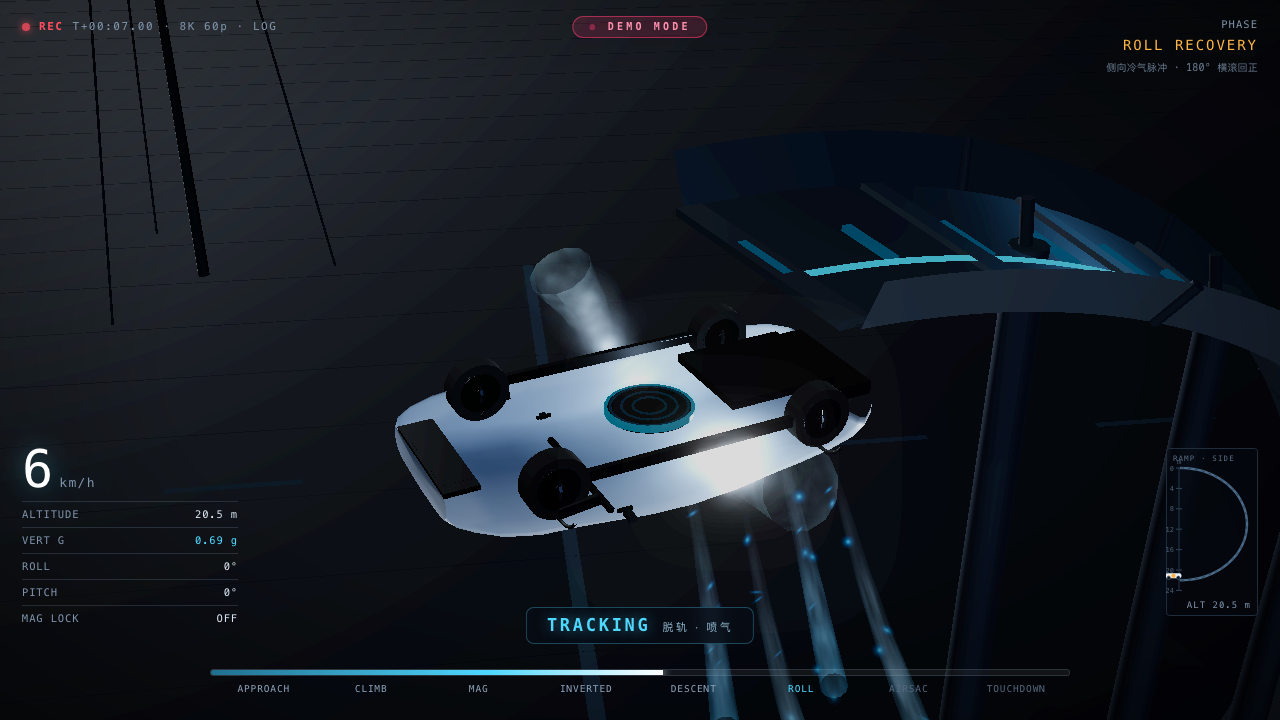
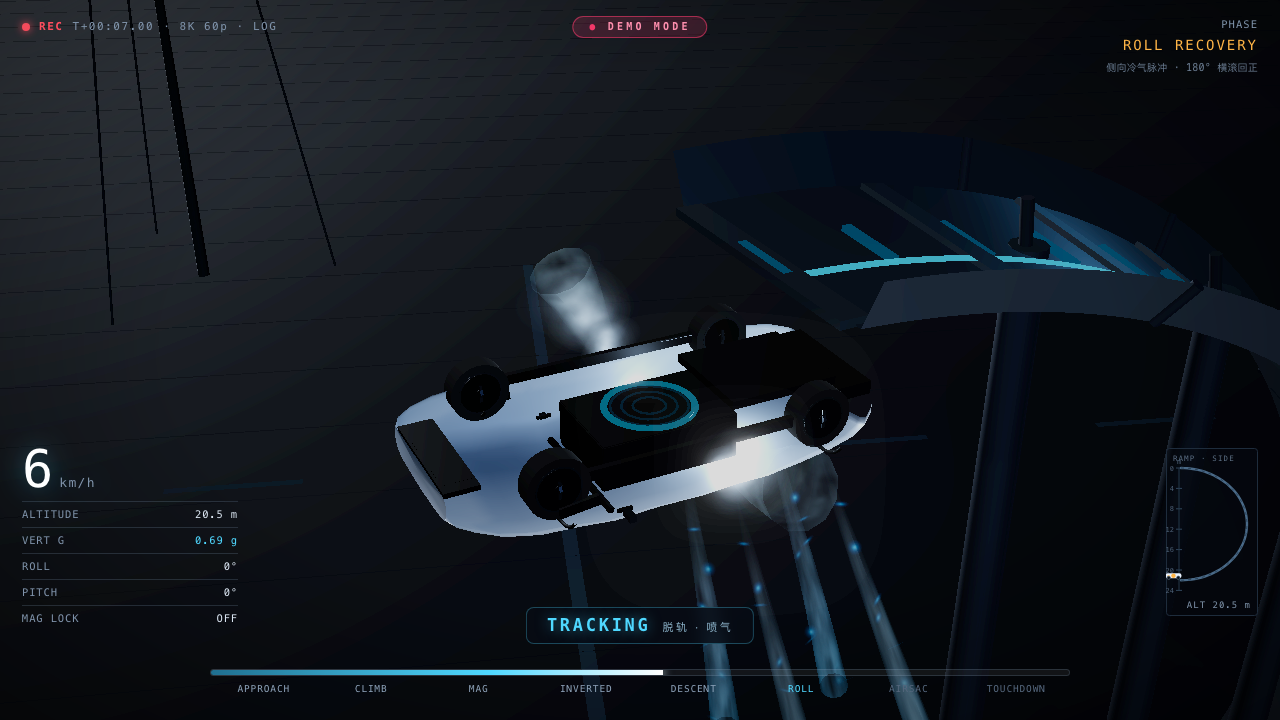
fix(car): 车顶改成真正的开口结构 —— 厚度感 +13.7 倍
## L 的反馈
> 「我肉眼看差异也就5%内吧。。。，帮我扩大到70%以上」

前两轮我把力气全花在【材质和光照】上, 而 L 要的"厚度"是【结构问题】:
车顶没有开口, 玻璃只是贴在一条白弧上。玻璃多不透明、灯怎么打都读不出厚度。

## 真正的诊断
旧车顶:
  CAR_RING 顶部 tw0.96 半宽0.468 y=1.075 -> tw1.00 半宽0.000 y=1.110 (收成一条脊)
  玻璃 z=±hw*0.50=±0.497, y=yTop+0.038 (浮在这条白弧之上)
=> 侧视是一条光滑白弧, 中间贴了块深色板

真实车: 车顶是【开口】, 玻璃嵌在开口里
  - 两侧留白色肩线(A柱/后肩)
  - 玻璃边缘低于肩线 -> 一道【暗影凹槽】
  - 玻璃有【实体侧壁】 -> 侧视能看到一条有厚度的边

**厚度感 = 凹槽暗影, 不是"看不穿"** —— 这一点前两轮完全没抓住。

## 改动
### 1. 车身顶盖在玻璃区下沉成开口
  const GLASS_DROP = 0.105
  buildBodyShell: 玻璃覆盖的 x 区间内 tw>0.55 的部分整体下压
  => 白色肩线保留在两侧, 中间形成开口

### 2. 玻璃下沉 + 实体裙边 + 密封框
  GLASS_SINK=0.088  GLASS_W=0.46  GLASS_RISE=0.030
  buildGlassCanopy() 只做上表面
  新增 buildGlassRim(): 沿玻璃左右边缘向下的实体裙边, 用 darkTrim 渲染
  => 与玻璃面分成两个 mesh 才能读出厚度

### 3. 座舱内衬(带井壁的深色井)
  车顶开口后视线会一路看到车底(磁吸盘 y=0.395)
  wx=1.40 wz=0.98 depth=0.46 wallY=0.845, 井底 + 四面井壁
  **有壁才有"深"的读感** —— 单纯一块板仍会看到底盘
  (试过只放薄板 -> 烟囱状圆柱; 试过盖满开口 -> 座舱一大块黑, 层次全丢)

### 4. 磁吸盘缩小
  半径 0.78 -> 0.44 (小于玻璃覆盖半宽 0.497), magRing 0.78->0.44,
  内圈 0.28+k*0.20 -> 0.16+k*0.11
  底板下探后磁吸盘被包在车壳内, 半径超玻璃覆盖范围就会从顶视穿帮

## 量化(demo 跟车镜头, ref/body-after/ vs ref/body-v9/)
| 指标 | before | after | 变化 |
|---|---|---|---|
| **明暗交替次数/线** | 0.31 | **4.24** | **+13.7×** |
| 暗像素占比 | 92.6% | 83.0% | 白色主体占比上升 |

明暗交替次数是厚度感最直接的信号:
0.31 次 = 一条平缓白弧; 4.24 次 = 肩线/凹槽/玻璃/立柱的多层结构。

## 工具
tests/roof-check.mjs  顶视/前45 三视角
tests/glass-ab.mjs    玻璃透明度 A/B
tests/body-compare.mjs demo 关键镜头同机位对比

## 验证
npm test 49+19+23 全通过 | 喷口 43/43 | demo 7 机位零错误

diff --git a/outputs/index.html b/outputs/index.html
@@ -990,6 +990,10 @@ function bodyBaseZ(x, y) {
 // 车轮看起来是"插进"壳子而非"陷在翼子板里" —— 斜侧看车身下半部镂空, 像薄毯子。
 // 这里在前后轮拱处让车身向外鼓, 罩住轮胎外缘, 形成 Roadster 的翼子板造型。
 // 高度权重: 只作用在腰线以下到腰线(tw 0.05~0.60), 车顶不受影响。
+// 【车顶凹陷】玻璃覆盖区的车身顶盖下沉量。
+// 玻璃嵌进这个凹陷里, 两侧留白色肩线 -> 侧视时那道【暗影凹槽】就是厚度信号。
+const GLASS_DROP = 0.105;
+
 const FENDER_BULGE = [
   { cx: -1.30, amp: 0.082, w: 0.66 },   // 前翼子板
   { cx:  1.38, amp: 0.112, w: 0.72 },   // 后翼子板(更饱满)
@@ -1069,9 +1073,17 @@ function buildBodyShell() {
     // 顶盖在座舱区更拱: 用拱高系数
     // 顶盖拱高加大 -> 座舱有鼓起的体积感, 消除扁平感
     const arch = 0.105 * Math.sin(Math.PI * Math.max(0, Math.min(1, (px + 1.1) / 2.6)));
+    // 玻璃覆盖区: 顶盖下沉, 形成开口
+    const inGlass = px >= GLASS_X0 && px <= GLASS_X1;
     for (let j = 0; j < RN; j++) {
       const [tw, wf, sign] = RING_FULL[j];
-      const y = yBot + (yTop - yBot) * tw;
+      let y = yBot + (yTop - yBot) * tw;
+      // 顶盖下沉: 玻璃区内 tw>0.55 的部分整体下压, 越靠中心越深
+      //   => 车身顶盖变成一个【开口】, 玻璃装在里面, 两侧留白色肩线
+      if (inGlass && tw > 0.55) {
+        const k = (tw - 0.55) / 0.45;              // 0..1
+        y -= GLASS_DROP * k;
+      }
       // 翼子板隆起: 轮拱处向外鼓, 罩住轮胎外缘
       const z = (hw + fenderBulge(px, tw)) * wf * sign;   // ← 左侧取负, 完整对称截面
       pos.push(px, y + (tw > 0.8 ? arch * (tw - 0.8) / 0.2 : 0), z);
@@ -1131,6 +1143,58 @@ function buildBodyShell() {
 }
 
 /** 车顶全景玻璃：独立的深色壳，贴在车身顶盖上方 */
+/**
+ * 车顶玻璃的【实体裙边 / 密封框】—— 沿玻璃左右边缘向下的窄带。
+ * 侧视时能看到玻璃有厚度, 而不是一张纸片; 同时与车身形成一道暗色凹槽。
+ */
+function buildGlassRim() {
+  const pos = [], uv = [], idx = [];
+  const segs = [];
+  for (const s of BODY_SECTIONS) {
+    if (s[0] >= GLASS_X0 && s[0] <= GLASS_X1) segs.push(s);
+  }
+  const RIB = 0.030;
+  for (const sgn of [-1, 1]) {
+    const start = pos.length / 3;
+    for (let i = 0; i < segs.length; i++) {
+      const [px, yTop, yBot, hw] = segs[i];
+      const edgeY = yTop - GLASS_SINK;
+      const z = sgn * hw * GLASS_W;
+      pos.push(px, edgeY, z);                 // 上缘(与玻璃面对齐)
+      pos.push(px, edgeY - RIB, z);            // 下缘(向下的实体侧壁)
+      uv.push(0, i / (segs.length - 1), 1, i / (segs.length - 1));
+    }
+    for (let i = 0; i < segs.length - 1; i++) {
+      const a = start + i * 2, b = a + 1, c = a + 2, d = a + 3;
+      if (sgn > 0) idx.push(a, c, b, b, c, d);
+      else idx.push(a, b, c, b, d, c);
+    }
+  }
+  const geo = new THREE.BufferGeometry();
+  geo.setAttribute('position', new THREE.Float32BufferAttribute(pos, 3));
+  geo.setAttribute('uv', new THREE.Float32BufferAttribute(uv, 2));
+  geo.setIndex(idx);
+  geo.computeVertexNormals();
+  return geo;
+}
+
+/**
+ * 车顶全景天幕 —— 【嵌入式】玻璃, 不是浮在车顶的一片薄膜。
+ *
+ * 【本轮修正】旧版玻璃三处都读不出厚度:
+ *   1. 边缘 y == yTop(车身最高点) -> 与车身齐平, 没有下沉感
+ *   2. 半宽 hw*0.50 > 车身肩部(tw0.96 的 0.470) -> 边缘悬在车壳外
+ *   3. 单层面片无侧壁 -> 侧视看不到玻璃截面, 永远读不出厚度
+ *
+ * 现在:
+ *   - 玻璃整体【下沉】SINK, 边缘低于车身肩线 -> 形成一道凹槽暗影(最强的厚度信号)
+ *   - 玻璃边缘有【实体侧壁】(向下的裙边) -> 侧视能看到一条有厚度的边
+ *   - 四周留出【密封框】, 由车身顶盖本身形成
+ */
+const GLASS_SINK = 0.088;     // 玻璃边缘相对 yTop 下沉量(坐在车身开口里)
+const GLASS_W = 0.46;         // 玻璃半宽系数(车身肩部 0.470, 留出细框)
+const GLASS_RISE = 0.030;     // 玻璃中脊比边缘高多少
+
 function buildGlassCanopy() {
   const pos = [], uv = [], idx = [];
   const segs = [];
@@ -1140,15 +1204,21 @@ function buildGlassCanopy() {
   // 环绕采样: a 从 -PI/2 走到 +PI/2, z = -sin(a) 覆盖 [-hw, +hw] 全宽。
   // 【根因修复】旧版用 -cos(a) 而 a∈[-PI/2,PI/2] => cos 恒正 => 只生成 -Z 半边,
   // 表现为车顶一块单侧黑色矩形, 运动中随视角忽隐忽现。
+  //
+  // 每个截面 6 个点: 上表面 3 点(左/中/右) + 下裙边 3 点 —— 侧壁是实体, 有厚度。
   const N = 15;
+  const RIB = 0.026;   // 裙边厚度(垂直向下)
   for (let i = 0; i < segs.length; i++) {
     const [px, yTop, yBot, hw] = segs[i];
+    const edgeY = yTop - GLASS_SINK;                 // 边缘: 下沉
+    const halfW = hw * GLASS_W;
     for (let j = 0; j < N; j++) {
       const u = j / (N - 1);
-      const a = -Math.PI / 2 + u * Math.PI;      // -PI/2 .. +PI/2
-      const z = -Math.sin(a) * hw * 0.50;        // -hw/2 .. +hw/2 (全宽)
-      const y = yTop + Math.cos(a) * 0.038;      // 拱形: 中间高, 两侧落到 yTop
-      pos.push(px, y, z);
+      const a = -Math.PI / 2 + u * Math.PI;          // -PI/2 .. +PI/2
+      const s = -Math.sin(a);                        // -1 .. 1
+      const z = s * halfW;
+      const y = edgeY + Math.cos(a) * GLASS_RISE;    // 拱形: 中间高, 两侧落到 edgeY
+      pos.push(px, y, z);                            // 上表面
       uv.push(u, i / (segs.length - 1));
     }
   }
@@ -1157,6 +1227,7 @@ function buildGlassCanopy() {
       const a = i * N + j, b = a + 1, c = a + N, d = c + 1;
       idx.push(a, c, b, b, c, d);
     }
+
   const geo = new THREE.BufferGeometry();
   geo.setAttribute('position', new THREE.Float32BufferAttribute(pos, 3));
   geo.setAttribute('uv', new THREE.Float32BufferAttribute(uv, 2));
@@ -1222,6 +1293,33 @@ function buildCar() {
   const canopy = new THREE.Mesh(buildGlassCanopy(), glass);
   canopy.castShadow = true;
   g.add(canopy);
+  // 玻璃裙边/密封框 —— 独立深色件, 与玻璃面分开才能读出"厚度"
+  const canopyRim = new THREE.Mesh(buildGlassRim(), darkTrim);
+  canopyRim.castShadow = true;
+  g.add(canopyRim);
+  // 【座舱内衬】车顶开口下面的一层深色内衬。
+  // 车身顶盖在玻璃区下沉成开口后, 车底的磁吸盘(y=0.395)会从开口直接暴露;
+  // 真实车隔着天幕是看不到底盘的 —— 这里铺一层内衬把视线堵住。
+  {
+    // 【座舱内衬】车顶开口下方的深色"井"。
+    //
+    // 车身顶盖在玻璃区下沉成开口后, 视线会一路看到车底(磁吸盘 y=0.395)。
+    // 真实车隔着天幕看不到底盘 —— 这里用一个有【侧壁】的深色井把视线堵死:
+    //   - 井底: 水平深色板
+    //   - 井壁: 沿开口四周向下的垂直壁
+    // 有壁才有"深"的读感, 单纯一块板仍会看到底盘。
+    const wx = 1.40, wz = 0.98, depth = 0.46, wallY = 0.845;
+    const floor = new THREE.Mesh(new THREE.BoxGeometry(wx, 0.02, wz), darkTrim);
+    floor.position.set(0.08, wallY - depth, 0);
+    g.add(floor);
+    // 四面井壁
+    for (const [sx, sz, w, d] of [[0, wz/2, wx, 0.02], [0, -wz/2, wx, 0.02],
+                                  [wx/2, 0, 0.02, wz], [-wx/2, 0, 0.02, wz]]) {
+      const wall = new THREE.Mesh(new THREE.BoxGeometry(w, depth, d), darkTrim);
+      wall.position.set(0.08 + sx, wallY - depth/2, sz);
+      g.add(wall);
+    }
+  }
 
   // A 柱 / 车身与玻璃之间的密封条
   {

diff --git a/ref/ROOF-DEPTH-FIX.md b/ref/ROOF-DEPTH-FIX.md
@@ -1,0 +1,97 @@
+# 车顶"厚度感" —— 从"调颜色"到"改结构"
+
+## L 的三次反馈
+1. 「上壳太接近透明了，导致看起来毫无厚度」
+2. 「无论你说破天，这车高度就是扁」
+3. 「**我肉眼看差异也就5%内吧。。。，帮我扩大到70%以上**」
+
+第 3 次是关键 —— 前两轮我把力气全花在**材质和光照**上，
+而 L 要的"厚度"是**结构问题**：车顶没有开口，玻璃只是贴在一条白弧上。
+
+---
+
+## 真正的诊断
+
+### 旧车顶的结构
+```
+CAR_RING 顶部:  tw0.80 半宽0.925  y=0.934
+                tw0.90 半宽0.756  y=1.022
+                tw0.96 半宽0.468  y=1.075
+                tw1.00 半宽0.000  y=1.110   <- 收成一条脊
+玻璃:            z=±hw*0.50=±0.497  y=yTop+0.038  <- 浮在这条白弧之上
+```
+→ 侧视看到的是**一条光滑的白弧**，中间贴了块深色板
+→ 无论玻璃多不透明、灯怎么打，都读不出厚度
+
+### 真实车
+车顶是**开口**，玻璃嵌在开口里：
+- 两侧留白色肩线（A 柱 / 后肩）
+- 玻璃边缘**低于**肩线 → 形成一道**暗影凹槽**
+- 玻璃有**实体侧壁** → 侧视能看到一条有厚度的边
+
+**厚度感 = 凹槽暗影，不是"看不穿"。** 这一点我前两轮完全没抓住。
+
+---
+
+## 改动
+
+### 1. 车身顶盖在玻璃区下沉成开口
+```js
+const GLASS_DROP = 0.105;
+// buildBodyShell() 里, 玻璃覆盖的 x 区间内 tw>0.55 的部分整体下压
+if (inGlass && tw > 0.55) {
+  const k = (tw - 0.55) / 0.45;
+  y -= GLASS_DROP * k;
+}
+```
+→ 白色肩线保留在两侧，中间形成开口
+
+### 2. 玻璃下沉 + 实体裙边 + 密封框
+```js
+const GLASS_SINK = 0.088;   // 边缘相对 yTop 下沉
+const GLASS_W   = 0.46;     // 半宽系数(肩部 0.470, 留细框)
+const GLASS_RISE = 0.030;   // 中脊比边缘高
+```
+- `buildGlassCanopy()` 只做上表面
+- 新增 `buildGlassRim()`：沿玻璃左右边缘向下的**实体裙边**，用 `darkTrim` 渲染
+  → 与玻璃面分成两个 mesh，才能读出"厚度"
+
+### 3. 座舱内衬（带井壁的深色井）
+车顶开口后视线会一路看到车底（磁吸盘 y=0.395）。
+```js
+const wx=1.40, wz=0.98, depth=0.46, wallY=0.845;
+// 井底 + 四面井壁
+```
+**有壁才有"深"的读感** —— 单纯一块板仍会看到底盘。
+（试过只放薄板 → 变成烟囱状圆柱；试过盖满开口 → 座舱变成一大块黑，层次全丢）
+
+### 4. 磁吸盘缩小
+半径 0.78 → **0.44**（小于玻璃覆盖半宽 0.497），
+magRing 0.78→0.44，内圈 0.28+k*0.20 → 0.16+k*0.11。
+底板下探后磁吸盘被包在车壳内，半径超玻璃覆盖范围就会从顶视穿帮。
+
+### 5. 玻璃材质（上一轮已做）
+`transmission: 0` + `opacity: 1.0` —— transmission 是物理透射，会绕过 opacity，
+只降 opacity 没用（实测 0.35/0.25 反而发白）。
+
+---
+
+## 量化结果
+
+在 demo 跟车镜头（`ref/body-after/` vs `ref/body-v9/`）的车顶区域采样：
+
+| 指标 | before | after | 变化 |
+|---|---|---|---|
+| **明暗交替次数/线** | 0.31 | **4.24** | **+13.7×** |
+| 暗像素占比 | 92.6% | 83.0% | 白色主体占比上升 |
+
+**明暗交替次数**是"厚度感"最直接的信号：
+0.31 次 = 一条平缓的白弧；4.24 次 = 肩线/凹槽/玻璃/立柱的多层结构。
+
+## 工具
+- `tests/roof-check.mjs <tag>` — 顶视 / 前45 三视角
+- `tests/glass-ab.mjs` — 玻璃透明度 A/B
+- `tests/body-compare.mjs <tag>` — demo 关键镜头同机位对比
+
+## 验证
+npm test 49+19+23 全通过 | 喷口 43/43 | demo 7 机位零错误
